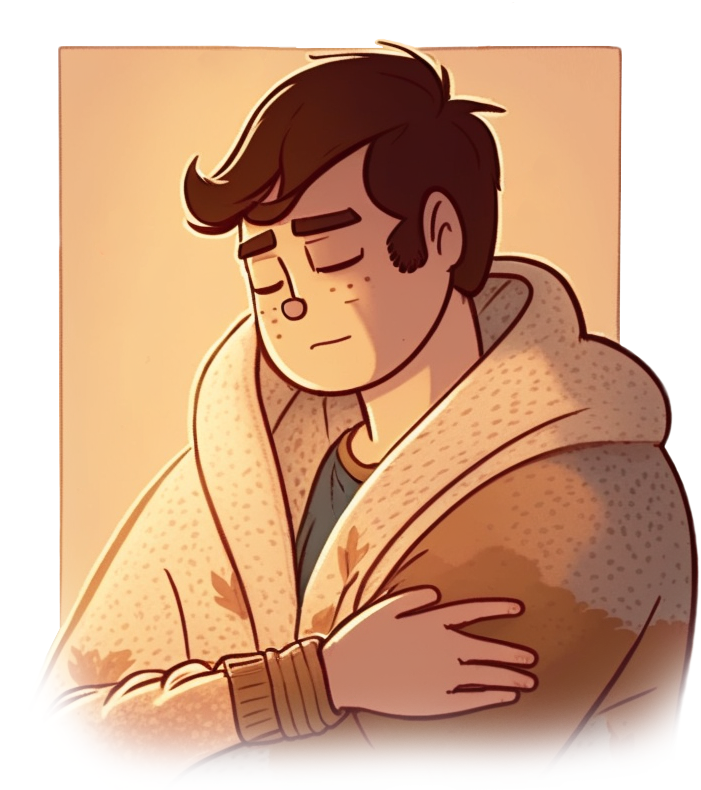
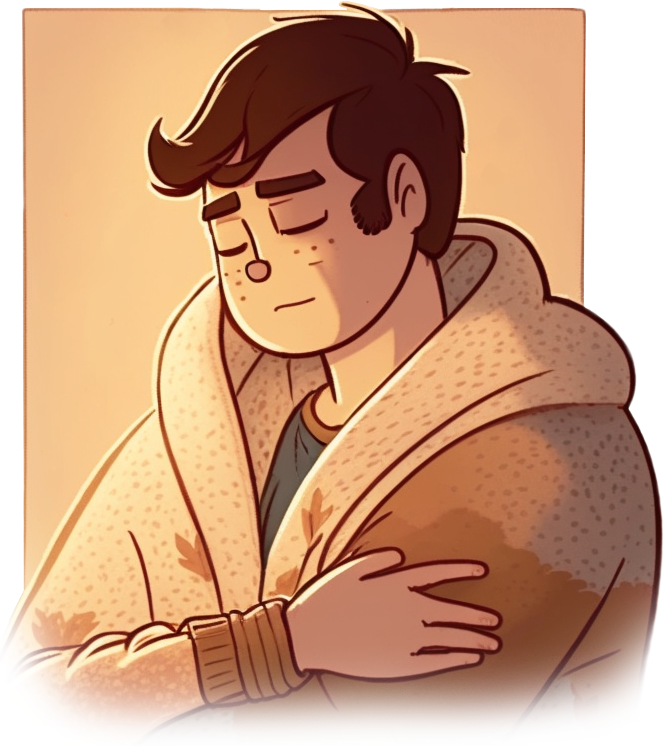
psy_site_2.0

diff --git a/psy_site_2.0/style.css b/psy_site_2.0/style.css
@@ -51,8 +51,19 @@ body{
 	color: #ffffff;
 	line-height: 1.4;
 	background: linear-gradient(-90deg, #f9bd6e, #809d6d);
-	/* background-size: 200% 200%; */
-	/* animation: gradient 4s ease-in-out infinite; */
+	background-size: 200% 200%;
+	animation: gradient 4s ease-in-out infinite;
+}
+@keyframes gradient{
+	0%{
+		background-position: 0 50%;
+	}
+	50%{
+		background-position: 100% 50%;
+	}
+	100%{
+		background-position: 0 50%;
+	}
 }
 .container{
 	max-width: 1220px;
@@ -134,26 +145,13 @@ body{
 	border-bottom: 3px solid #ffffff;
 	color: #ffffff;
 }
-
-/* @keyframes gradient{
-	0%{
-		background-position: 0 50%;
-	}
-	50%{
-		background-position: 100% 50%;
-	}
-	100%{
-		background-position: 0 50%;
-	}
-} */
 .first-page-inner{
-	height: 100vh;
 	display: flex;
 	justify-content: space-between;
 	padding-top: 140px;
 }
 .column-1{
-	width: 50%;
+	width: 60%;
 	display: flex;
 	flex-direction: column;
 	justify-content: space-between;
@@ -181,51 +179,53 @@ body{
   font-size: 22px;
   color:#E8E2DE;
 }
-.first-page__column-2{
-	position: relative;
+.firsg-page__img-inner {
+	position: relative;	
+	display: flex;
+	justify-content: center;
 }
 .first-page__img{
 	object-fit: cover;
-	height: 80vh;
+	width: 100%;
 }
 .first-page__heart{
 	position: absolute;
 }
 .first-page__heart-1 {
-	top: 260px;
-	left: 81px;
+	top: 40%;
+  left: 10%;
 	animation: floating 10s infinite ease-in-out;
 }
 .first-page__heart-2{
-	top: 161px;
-	left: 65px;
+	top: 25%;
+  left: 7%;
 	animation: floating 17s infinite ease-in-out;
 }
 .first-page__heart-3{
-	top: 84px;
-	left: 58px;
+	top: 5%;
+  left: 9%;
 	animation: floating 12s infinite ease-in-out;
 }
 .first-page__heart-4{
-	top: 4px;
-	left: 110px;
+	top: -8%;
+  left: 28%;
 	animation: floating 16s infinite ease-in-out;
 }
 .first-page__heart-5{
-	top: -39px;
-	left: 202px;
+	top: -10%;
+  left: 45%;
 	animation: floating 13s infinite ease-in-out;
 }
 
 .first-page__heart-6{
-	top: -31px;
-	left: 349px;
+	top: -3%;
+  left: 70%;
 	animation: floating 20s infinite ease-in-out;
 }
 
 .first-page__heart-7{
-	top: 93px;
-	left: 469px;
+	top: 13%;
+  left: 75%;
 	animation: floating 14s infinite ease-in-out;
 }
 
@@ -540,16 +540,8 @@ body{
 
 @media (max-width: 1245px) {
 	.column-1{
+		width: 100%;
 		align-items: center;
-	}
-	.first-page__title-2{
-		margin-left: 0;
-	}
-	.first-page__title-inner{
-		padding-right: 30px;
-	}
-	.first-page__container{
-		padding-right: 0px;
 	}
 	.btn{
 		width: 50%;
@@ -569,51 +561,53 @@ body{
 	}
 }
 @media (max-width: 1160px) {
-	.first-page__container{
-		padding-right: 20px;
-	}
-	.first-page{
-		padding-top: 280px;
-	}
-	.first-page-inner{
-		flex-direction: column-reverse;
-		align-items: center;
-	}
 	.first-page__title-1,
 	.first-page__title-2{
 		display: none;
-	}
-	.first-page__column-1{
-		padding-top: 75px;
-	}
-	.first-page__title-column-2{
-		display: block;
-	}
-	.first-page__title-2{
-		margin: 0;
-		text-align: right;
-	}
-	.first-page__text-inner-column-2 {
-		display: flex;
-		justify-content: space-between;
-		flex-direction: column;
-		width: 100%;
-	}
-	.first-page__title-2-column-2{
-		padding-top: 5px;
 	}
 	.about-me-inner{
 		flex-direction: column;
 		align-items: center;
 	}
-	.first-page__column-2{
-		margin-top: 20px;
-	}
 	.footer__column-1-inner{
 		gap: 15px;
 	}
+	.first-page-inner{
+		flex-direction: column-reverse;
+	}
+	.first-page__img{
+		width: 50%;
+	}
+	.first-page__column-2{
+		align-items: center;
+		width: 100%;
+	}
+	.first-page__text-inner-column-2{
+		display: flex;
+		justify-content: center;
+		margin-bottom: 40px;
+		flex-direction: column;
+	}
+	.first-page__title-column-2{
+		display: block;
+		margin: 0;
+		width: 100%;
+	}
+	.first-page__title-2-column-2{
+		margin-top: 30px;
+		text-align: right;
+	}
+	.first-page__title-1-column-2{
+		text-align: left;
+	}
 }
 @media (max-width: 900px) {
+	.first-page-inner{
+		padding-top: 30px;
+	}
+	.alert-success{
+		width: 80%;
+	}
 	.btn{
 		width: 80%;
 	}
@@ -669,22 +663,22 @@ body{
 	.nav-unactive{
 		opacity: 0;
 		height: 0;
-		transition: height 0.4s ease-in-out;
+		transition: height 0.2s ease-in-out;
 	}
 	.nav-active{
 		font-size: 18px;
 		opacity: 1;
 		height: 565px;
-		transition: opacity 3s ease-in-out, height 0.4s ease-in-out;
+		transition: opacity 1.7s ease-in-out, height 0.2s ease-in-out;
 	}
 	.header-inner-unactive{
 		width: 95px;
-		transition: width 0.4s ease-in-out;
+		transition: width 0.2s ease-in-out;
 	}
 	.header-inner-active{
 		height: 0;
 		width: 300px;
-		transition: width 0.4s ease-in-out;
+		transition: width 0.2s ease-in-out;
 	}
 
 	.header-line-1{
@@ -732,16 +726,24 @@ body{
 	.ariticle__img{
 		width: 68%;
 	}
-	.first-page__text-inner-column-2{
-		padding-bottom: 60px;
+}
+@media (max-width: 700px) {
+	.about-me,
+	.services,
+	.articles,
+	.record{
+		margin-top: 100px;
 	}
-	.first-page__title-2-column-2{
-		padding-top: 40px;
+	.first-page__img{
+		width: 70%;
 	}
 }
 @media (max-width:600px){
-	.first-page__title{
-		font-size: 35px;
+	.first-page__img{
+		width: 80%;
+	}
+	.first-page__title-column-2{
+		font-size: 30px;
 	}
 	.footer__column-2{
 		align-items: flex-end;
@@ -767,32 +769,17 @@ body{
 	.slide{
 		width: 100%;
 	}
-	.first-page__text-inner-column-2{
-		padding-bottom: 80px;
-	}
 }
-@media (max-width:520px){
-	.about-me__column-1{
+@media (max-width:440px){
+	.first-page__img{
 		width: 100%;
 	}
-	.first-page__title{
-		font-size: 30px;
-	}
-}
-@media (max-width:520px){
-	.first-page__title{
+	.first-page__title-column-2{
 		font-size: 25px;
 	}
-	.first-page__btn{
-		width: 280px;
-	}
 }
-@media (max-width:370px){
-	.first-page__title-2-column-2{
-		display: none;
-	}
-	.first-page__title{
-		font-size: 35px;
-		text-align: center;
+@media (max-width:365px){
+	.first-page__title-2-column-2-fragment{
+		display: block;
 	}
 }

diff --git a/psy_site_2.0/index.html b/psy_site_2.0/index.html
@@ -66,19 +66,23 @@
 
 					<div class="column-2 first-page__column-2">
 
-						<img src="images/first-page/first-page__img.png" class="first-page__img">
-						<img src="images/first-page/1.png" class="first-page__heart first-page__heart-1">
-						<img src="images/first-page/2.png" class="first-page__heart first-page__heart-2">
-						<img src="images/first-page/3.png" class="first-page__heart first-page__heart-3">
-						<img src="images/first-page/4.png" class="first-page__heart first-page__heart-4">
-						<img src="images/first-page/5.png" class="first-page__heart first-page__heart-5">
-						<img src="images/first-page/6.png" class="first-page__heart first-page__heart-6">
-						<!-- <img src="images/first-page/7.png" class="first-page__heart first-page__heart-7"> -->
+						<div class="first-page__text-inner-column-2">
+							<p class="first-page__title first-page__title-1 first-page__title-column-2 first-page__title-1-column-2">
+								Тёплый уголок</p>
+							<p class="first-page__title first-page__title-2 first-page__title-column-2 first-page__title-2-column-2">
+								для разговоров <span class="first-page__title-2-column-2-fragment">о важном</span></p>
+						</div> 	
 
-					</div>
-					<div class="first-page__text-inner-column-2">
-						<p class="first-page__title first-page__title-1 first-page__title-column-2 first-page__title-1-column-2">Тёплый уголок</p>
-						<p class="first-page__title first-page__title-2 first-page__title-column-2 first-page__title-2-column-2">для разговоров о важном</p>
+						<div class="firsg-page__img-inner">
+							<img src="images/first-page/first-page__img.png" class="first-page__img">
+							<img src="images/first-page/1.png" class="first-page__heart first-page__heart-1">
+							<img src="images/first-page/2.png" class="first-page__heart first-page__heart-2">
+							<img src="images/first-page/3.png" class="first-page__heart first-page__heart-3">
+							<img src="images/first-page/4.png" class="first-page__heart first-page__heart-4">
+							<img src="images/first-page/5.png" class="first-page__heart first-page__heart-5">
+							<img src="images/first-page/6.png" class="first-page__heart first-page__heart-6">
+							<img src="images/first-page/7.png" class="first-page__heart first-page__heart-7">
+						</div>
 					</div>
 
 				</div>
